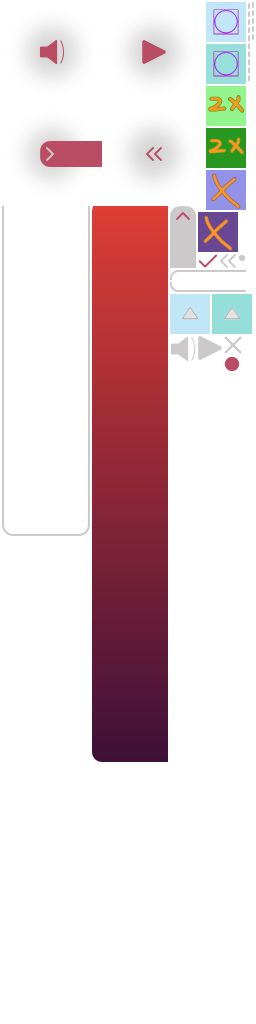
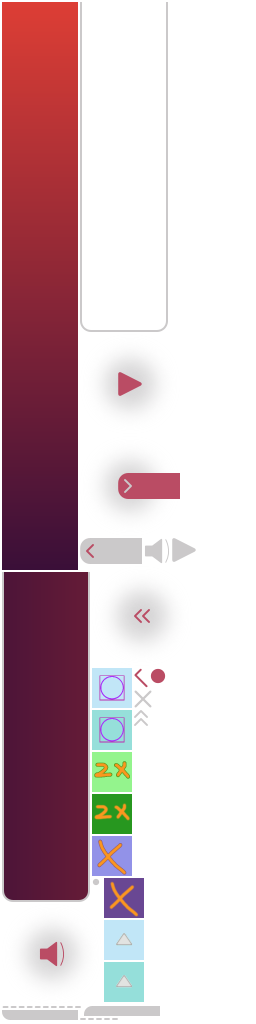
refactor seq ui layer, panel backgrounds

diff --git a/PttrnFlow/PttrnFlow/Layers/SequenceUILayer.m b/PttrnFlow/PttrnFlow/Layers/SequenceUILayer.m
@@ -23,31 +23,40 @@ static int const kMaxControlLengthFull = 8;
 static int const kMaxControlLengthCompact = 6;
 static CGFloat const kControlStepWidth = 40;
 static CGFloat const kTimeLineRowHeight = 44;
-static CGFloat const kControlsRowHeight = 64;
-static CGFloat const kItemMenuBottom = 12; // use as the bottom of the right gradient image
+static CGFloat const kControlsRowHeight = 64; // use as bottom of control bar gradient image offset
+static CGFloat const kItemMenuBottom = 64; // use as the bottom of the right gradient image
 static CGFloat const kUIPadding = 4;
 static CGFloat const kLineWidth = 2;
 static CGFloat const kItemMenuRowHeight = 80;
+static GLubyte const kPanelMaskOpacity = 255 * 0.92;
 
 @interface SequenceUILayer ()
 
+@property (weak, nonatomic) TickDispatcher *tickDispatcher;
+@property (weak, nonatomic) CCSpriteBatchNode *uiBatchNode;
+
+// size and positions
 @property (assign) int steps;
 @property (assign) BOOL menuOpen;
 @property (assign) CGFloat controlsButtonLength;
 @property (assign) CGFloat itemsToggleOpenX;
 @property (assign) CGSize buttonAssetSize;
 
-@property (weak, nonatomic) TickDispatcher *tickDispatcher;
-@property (weak, nonatomic) CCSpriteBatchNode *uiBatchNode;
+// timeline controls
 @property (weak, nonatomic) PanSprite *panSprite;
-@property (weak, nonatomic) CCSprite *controlBar;
+@property (weak, nonatomic) CCSprite *timelineBorder;
+@property (weak, nonatomic) CCSprite *timelineBackground;
 @property (weak, nonatomic) TickHitChart *hitChart;
 @property (weak, nonatomic) TickerControl *tickerControl;
+
+// item menu
 @property (weak, nonatomic) CCSprite *itemMenuTopCap;
 @property (weak, nonatomic) CCSprite *itemMenuBottomCap;
 @property (weak, nonatomic) TileSprite *itemMenuLeftSeparator;
 @property (weak, nonatomic) ClippingSprite *rightGradientMask;
 @property (weak, nonatomic) CCMenuItemToggle *itemsToggle;
+
+// general controls
 @property (weak, nonatomic) CCMenu *controlMenu;
 
 @end
@@ -58,16 +67,15 @@ static CGFloat const kItemMenuRowHeight = 80;
 {
     self = [super init];
     if (self) {
-        
         _tickDispatcher = tickDispatcher;
 
-        // general sizes / positions
+        // set general sizes / positions
         CCSprite *itemMenuBottomCap = [CCSprite spriteWithSpriteFrameName:@"item_menu_bottom.png"];
         static CGFloat itemsToggleOpenOffset = 10;
         _itemsToggleOpenX = (self.contentSize.width - itemMenuBottomCap.contentSize.width) - itemsToggleOpenOffset;
         _controlsButtonLength = (self.itemsToggleOpenX / 7) * 2;
         CCSprite *exitOff = [CCSprite spriteWithSpriteFrameName:@"exit_off.png"];
-        self.buttonAssetSize = exitOff.contentSize;
+        _buttonAssetSize = exitOff.contentSize;
         
         // batch node
         CCSpriteBatchNode *uiBatch = [CCSpriteBatchNode batchNodeWithFile:[kTextureKeyUILayer stringByAppendingString:@".png"]];
@@ -105,8 +113,8 @@ static CGFloat const kItemMenuRowHeight = 80;
         // buttons must be added to a CCMenu to work
         CCMenu *menu = [CCMenu menuWithItems:exitButton, speakerButton, playButton, itemsToggle, nil];
         _controlMenu = menu;
-        menu.position = ccp(0, 0);
-        [self addChild:menu];
+        menu.position = CGPointZero;
+        [self addChild:menu]; // can't add to batch because menu is not a ccsprite
         
         int steps = (tickDispatcher.sequenceLength / 4);
         self.steps = steps;
@@ -133,46 +141,53 @@ static CGFloat const kItemMenuRowHeight = 80;
         _panSprite = panSprite;
         panSprite.scrollDirection = ScrollDirectionHorizontal;
         panSprite.position = panNodeOrigin;
-        [self addChild:panSprite];
+        [self addChild:panSprite]; // can't add to batch because PanSprite contains ClippingSprite which overrides 'visit'
         
-        // control bar separator
-        CCSprite *controlBar = [CCSprite spriteWithSpriteFrameName:@"control_bar.png"];
-        _controlBar = controlBar;
-        controlBar.anchorPoint = ccp(0, 0);
-        [uiBatch addChild:controlBar];
+        // timeline controls border
+        CCSprite *timelineBorder = [CCSprite spriteWithSpriteFrameName:@"control_bar.png"];
+        _timelineBorder = timelineBorder;
+        timelineBorder.anchorPoint = CGPointZero;
+        [uiBatch addChild:timelineBorder];
+        
+        // timeline controls background
+        CCSprite *timelineBackground = [CCSprite spriteWithSpriteFrameName:@"control_bar_gradient_mask.png"];
+        _timelineBackground = timelineBackground;
+        timelineBackground.anchorPoint = CGPointZero;
+        timelineBackground.opacity = kPanelMaskOpacity;
+        [self addChild:timelineBackground z:self.panSprite.zOrder - 1]; // can't add to batch because must be drawn below pan sprite
         
         // item menu
         // -- edges
         _itemMenuBottomCap = itemMenuBottomCap;
-        itemMenuBottomCap.anchorPoint = ccp(0, 0);
+        itemMenuBottomCap.anchorPoint = CGPointZero;
         itemMenuBottomCap.position = ccp([self itemMenuLeftOpened:NO], kItemMenuBottom);
         [uiBatch addChild:itemMenuBottomCap];
         
         TileSprite *itemMenuLeftSeparator = [[TileSprite alloc] initWithTileFrameName:@"dotted_line_2_80.png" repeatHorizonal:1 repeatVertical:dragItems.count];
         _itemMenuLeftSeparator = itemMenuLeftSeparator;
-        itemMenuLeftSeparator.anchorPoint = ccp(0, 0);
+        itemMenuLeftSeparator.anchorPoint = CGPointZero;
         itemMenuLeftSeparator.position = ccp([self itemMenuLeftOpened:NO], self.itemMenuBottomCap.position.y + self.itemMenuBottomCap.contentSize.height);
         [uiBatch addChild:itemMenuLeftSeparator];
         
         CCSprite *itemMenuTopCap = [CCSprite spriteWithSpriteFrameName:@"item_menu_top.png"];
         _itemMenuTopCap = itemMenuTopCap;
-        itemMenuTopCap.anchorPoint = ccp(0, 0);
+        itemMenuTopCap.anchorPoint = CGPointZero;
         itemMenuTopCap.position = ccp([self itemMenuLeftOpened:NO], self.itemMenuLeftSeparator.position.y + self.itemMenuLeftSeparator.contentSize.height);
         [uiBatch addChild:itemMenuTopCap];
         
         // -- panel mask
-        CGFloat maskHeight = (itemMenuTopCap.position.y + itemMenuTopCap.contentSize.height) - kItemMenuBottom;
+        CGFloat maskHeight = itemMenuTopCap.position.y - (kItemMenuBottom + itemMenuBottomCap.contentSize.height);
         ClippingSprite *rightGradientMask = [ClippingSprite clippingSpriteWithRect:CGRectMake(0, 0, self.itemMenuBottomCap.contentSize.width, maskHeight)];
         _rightGradientMask = rightGradientMask;
+        rightGradientMask.anchorPoint = CGPointZero;
+        rightGradientMask.position = [self itemMenuOriginOpened:NO];
         
-        CCSprite *rightGradientSprite = [CCSprite spriteWithSpriteFrameName:@"gradient_mask_76_556.png"];
-        rightGradientSprite.anchorPoint = ccp(0, 0);
-        rightGradientSprite.position = CGPointZero;
+        CCSprite *rightGradientSprite = [CCSprite spriteWithSpriteFrameName:@"gradient_mask_76_568.png"];
+        rightGradientSprite.anchorPoint = CGPointZero;
+        rightGradientSprite.position = ccp(0, -(kItemMenuBottom + itemMenuBottomCap.contentSize.height));
+        rightGradientSprite.opacity = kPanelMaskOpacity;
         [rightGradientMask addChild:rightGradientSprite];
-        
-        rightGradientMask.anchorPoint = ccp(0, 0);
-        rightGradientMask.position = ccp([self itemMenuLeftOpened:NO], kItemMenuBottom);
-        [self addChild:rightGradientMask];
+        [self addChild:rightGradientMask]; // can't add to batch because
         
         // size and position the pan sprite and control bar
         [self configureItemMenuOpened:NO animated:NO];
@@ -212,7 +227,12 @@ static CGFloat const kItemMenuRowHeight = 80;
     if (opened) {
         return self.contentSize.width - self.itemMenuBottomCap.contentSize.width;
     }
-    return self.contentSize.width + (self.controlBar.contentSize.width - self.contentSize.width) + padding;
+    return self.contentSize.width + (self.timelineBorder.contentSize.width - self.contentSize.width) + padding;
+}
+
+- (CGPoint)itemMenuOriginOpened:(BOOL)opened
+{
+    return ccp([self itemMenuLeftOpened:opened], kItemMenuBottom + self.itemMenuBottomCap.contentSize.height);
 }
 
 - (CGPoint)itemsToggleOriginOpened:(BOOL)opened
@@ -234,15 +254,15 @@ static CGFloat const kItemMenuRowHeight = 80;
         unitWidth = MIN(self.steps, kMaxControlLengthCompact);
     }
     
-    // control bar
+    // timeline
     CGFloat xOffset = -(kMaxControlLengthFull - unitWidth) * kControlStepWidth;
     if (xOffset < 0){
-        xOffset -= (self.controlBar.contentSize.width - self.contentSize.width);
+        xOffset -= (self.timelineBorder.contentSize.width - self.contentSize.width);
         if (unitWidth == kMaxControlLengthCompact) {
             xOffset -= kUIPadding;
         }
     }
-    CGPoint controlBarPos = ccp(xOffset, kControlsRowHeight);
+    CGPoint timelinePos = ccp(xOffset, kControlsRowHeight);
     
     // pan sprite
     CGFloat panSpriteWidth;
@@ -260,14 +280,18 @@ static CGFloat const kItemMenuRowHeight = 80;
     CGPoint itemMenuBottomCapPos = ccp([self itemMenuLeftOpened:opened], kItemMenuBottom);
     CGPoint itemMenuLeftSeparatorPos = ccp([self itemMenuLeftOpened:opened], self.itemMenuBottomCap.position.y + self.itemMenuBottomCap.contentSize.height);
     CGPoint itemMenuTopCapPos = ccp([self itemMenuLeftOpened:opened], self.itemMenuLeftSeparator.position.y + self.itemMenuLeftSeparator.contentSize.height);
-    CGPoint itemMenuGradientMaskPos = ccp([self itemMenuLeftOpened:opened], kItemMenuBottom);
     
     // animate
     if (animated) {
-        // control bar
-        CCMoveTo *moveControlBar = [CCMoveTo actionWithDuration:kTransitionDuration position:controlBarPos];
-        CCEaseSineOut *easeControlBar = [CCEaseSineOut actionWithAction:moveControlBar];
-        [self.controlBar runAction:easeControlBar];
+        // timeline border
+        CCMoveTo *moveTimelineBorder = [CCMoveTo actionWithDuration:kTransitionDuration position:timelinePos];
+        CCEaseSineOut *easeTimelineBorder = [CCEaseSineOut actionWithAction:moveTimelineBorder];
+        [self.timelineBorder runAction:easeTimelineBorder];
+        
+        // timeline background
+        CCMoveTo *moveTimelineBackgroud = [CCMoveTo actionWithDuration:kTransitionDuration position:timelinePos];
+        CCEaseSineOut *easeTimelineBackground = [CCEaseSineOut actionWithAction:moveTimelineBackgroud];
+        [self.timelineBackground runAction:easeTimelineBackground];
 
         // pan sprite with completion
         CCActionTween *changeWidth = [CCActionTween actionWithDuration:kTransitionDuration key:@"containerWidth" from:self.panSprite.contentSize.width to:panSpriteWidth];
@@ -292,7 +316,7 @@ static CGFloat const kItemMenuRowHeight = 80;
         [self.itemMenuTopCap runAction:easeItemMenuTopCap];
         
         // gradient mask
-        CCMoveTo *moveMenuMask = [CCMoveTo actionWithDuration:kTransitionDuration position:itemMenuGradientMaskPos];
+        CCMoveTo *moveMenuMask = [CCMoveTo actionWithDuration:kTransitionDuration position:[self itemMenuOriginOpened:opened]];
         CCEaseSineInOut *easeMenuMask = [CCEaseSineOut actionWithAction:moveMenuMask];
         [self.rightGradientMask runAction:easeMenuMask];
         
@@ -306,12 +330,13 @@ static CGFloat const kItemMenuRowHeight = 80;
     }
     // jump to
     else {
-        self.controlBar.position = controlBarPos;
+        self.timelineBorder.position = timelinePos;
+        self.timelineBackground.position = timelinePos;
         self.panSprite.containerWidth = panSpriteWidth;
         self.itemMenuBottomCap.position = itemMenuBottomCapPos;
         self.itemMenuLeftSeparator.position = itemMenuLeftSeparatorPos;
         self.itemMenuTopCap.position = itemMenuTopCapPos;
-        self.rightGradientMask.position = itemMenuGradientMaskPos;
+        self.rightGradientMask.position = [self itemMenuOriginOpened:opened];
         self.itemsToggle.position = [self itemsToggleOriginOpened:opened];
     }
 }
